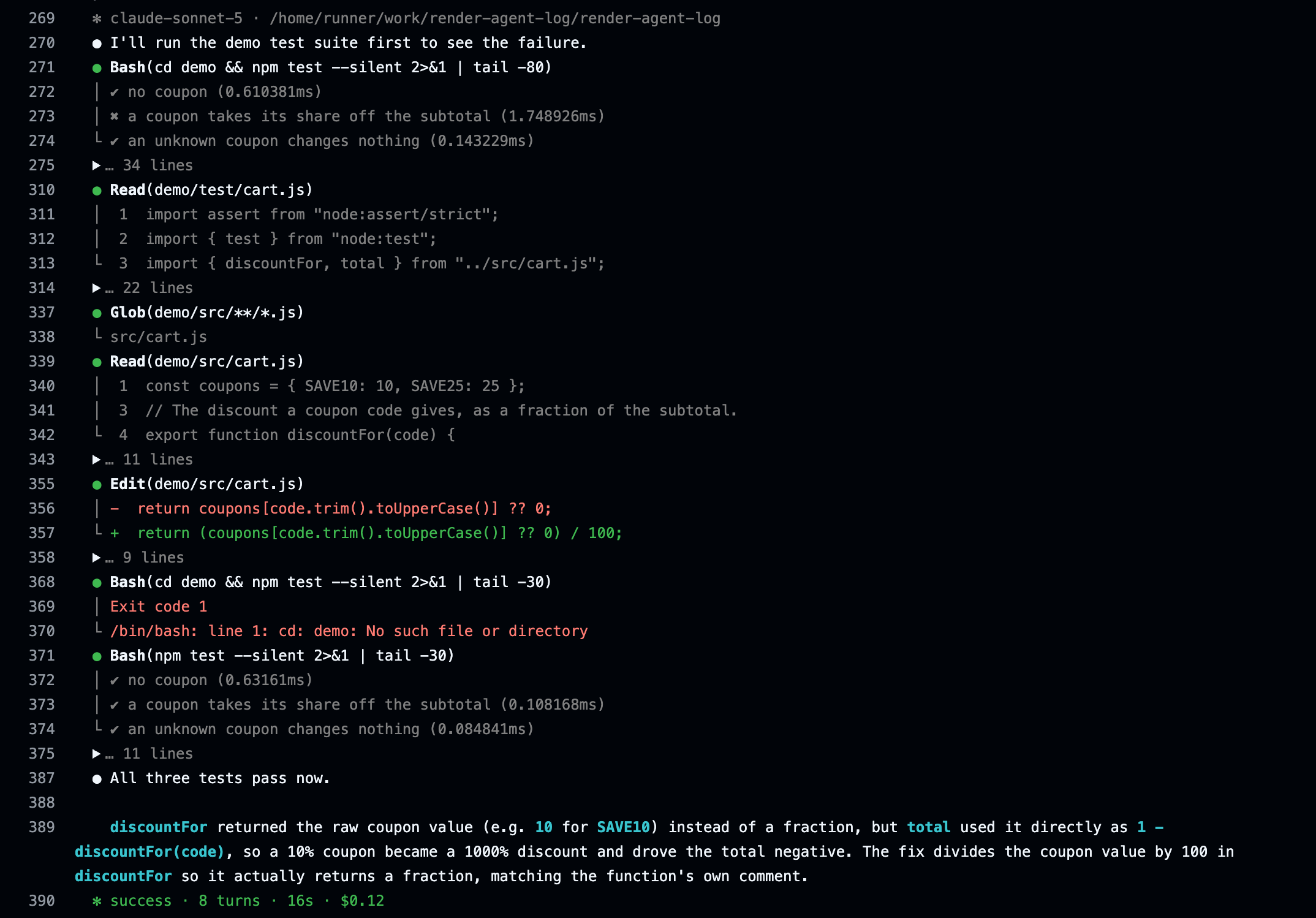
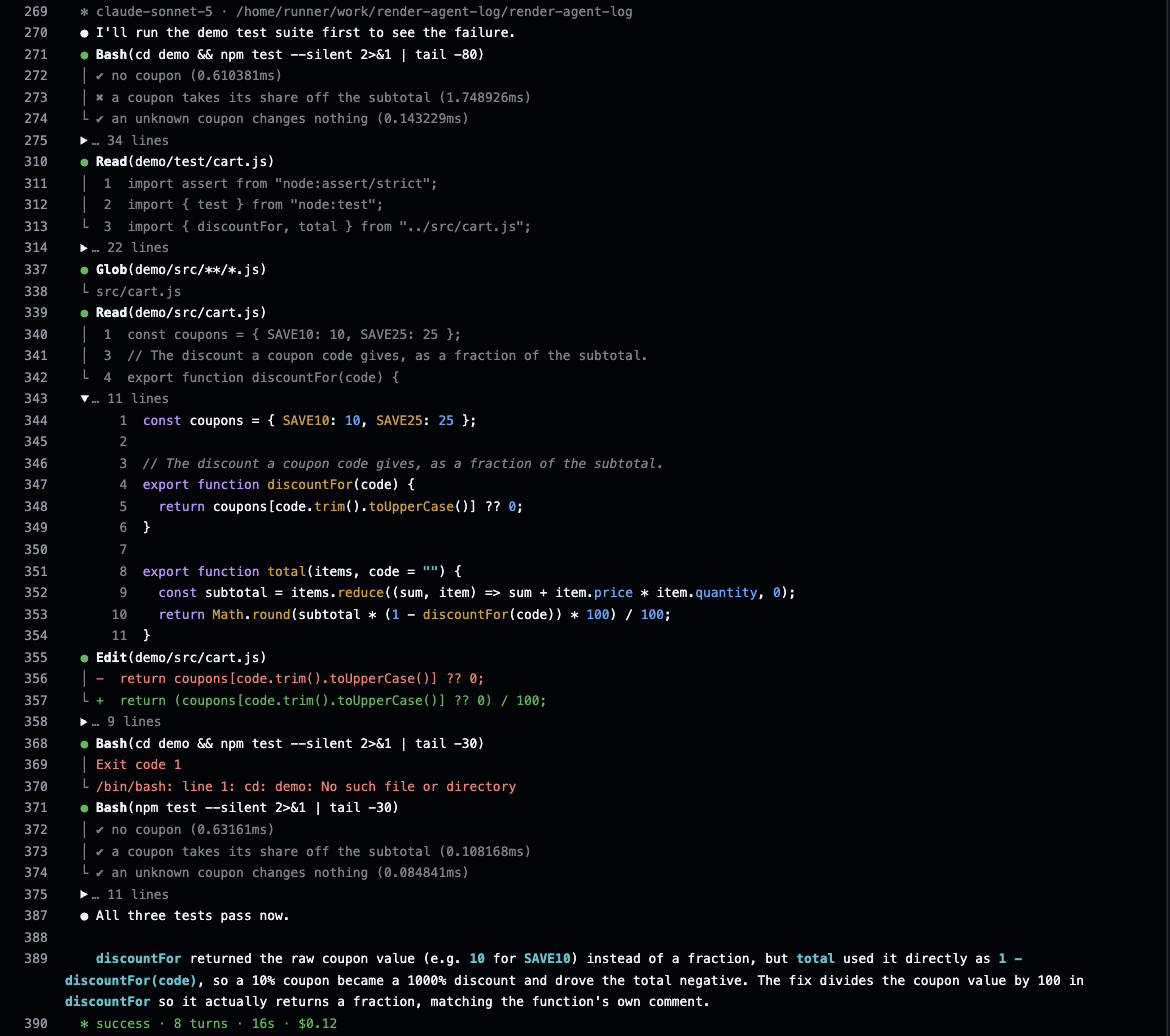
Demo screenshot with the read file expanded, so the highlighting shows

Changed region(s): [[0.0, 0.0, 0.9538, 1.0], [0.4, 0.3355, 0.5538, 0.366], [0.3692, 0.2745, 0.4615, 0.305]]

diff --git a/README.md b/README.md
@@ -7,7 +7,7 @@ It works live, while the agent runs, or on a finished run.
 
 <picture>
   <source media="(prefers-color-scheme: dark)" srcset="docs/images/demo-dark.png">
-  <img alt="A Claude Code run in the GitHub Actions log: a failing test, the files it read, the edit as a diff, the tests passing, and a summary line" src="docs/images/demo-light.png">
+  <img alt="A Claude Code run in the GitHub Actions log: a failing test, the files it read with one expanded and syntax-highlighted, the edit as a diff, the tests passing, and a summary line" src="docs/images/demo-light.png">
 </picture>
 
 That is Claude fixing a failing test in [`demo/`](demo/), inside `claude-code-action`. You can check
